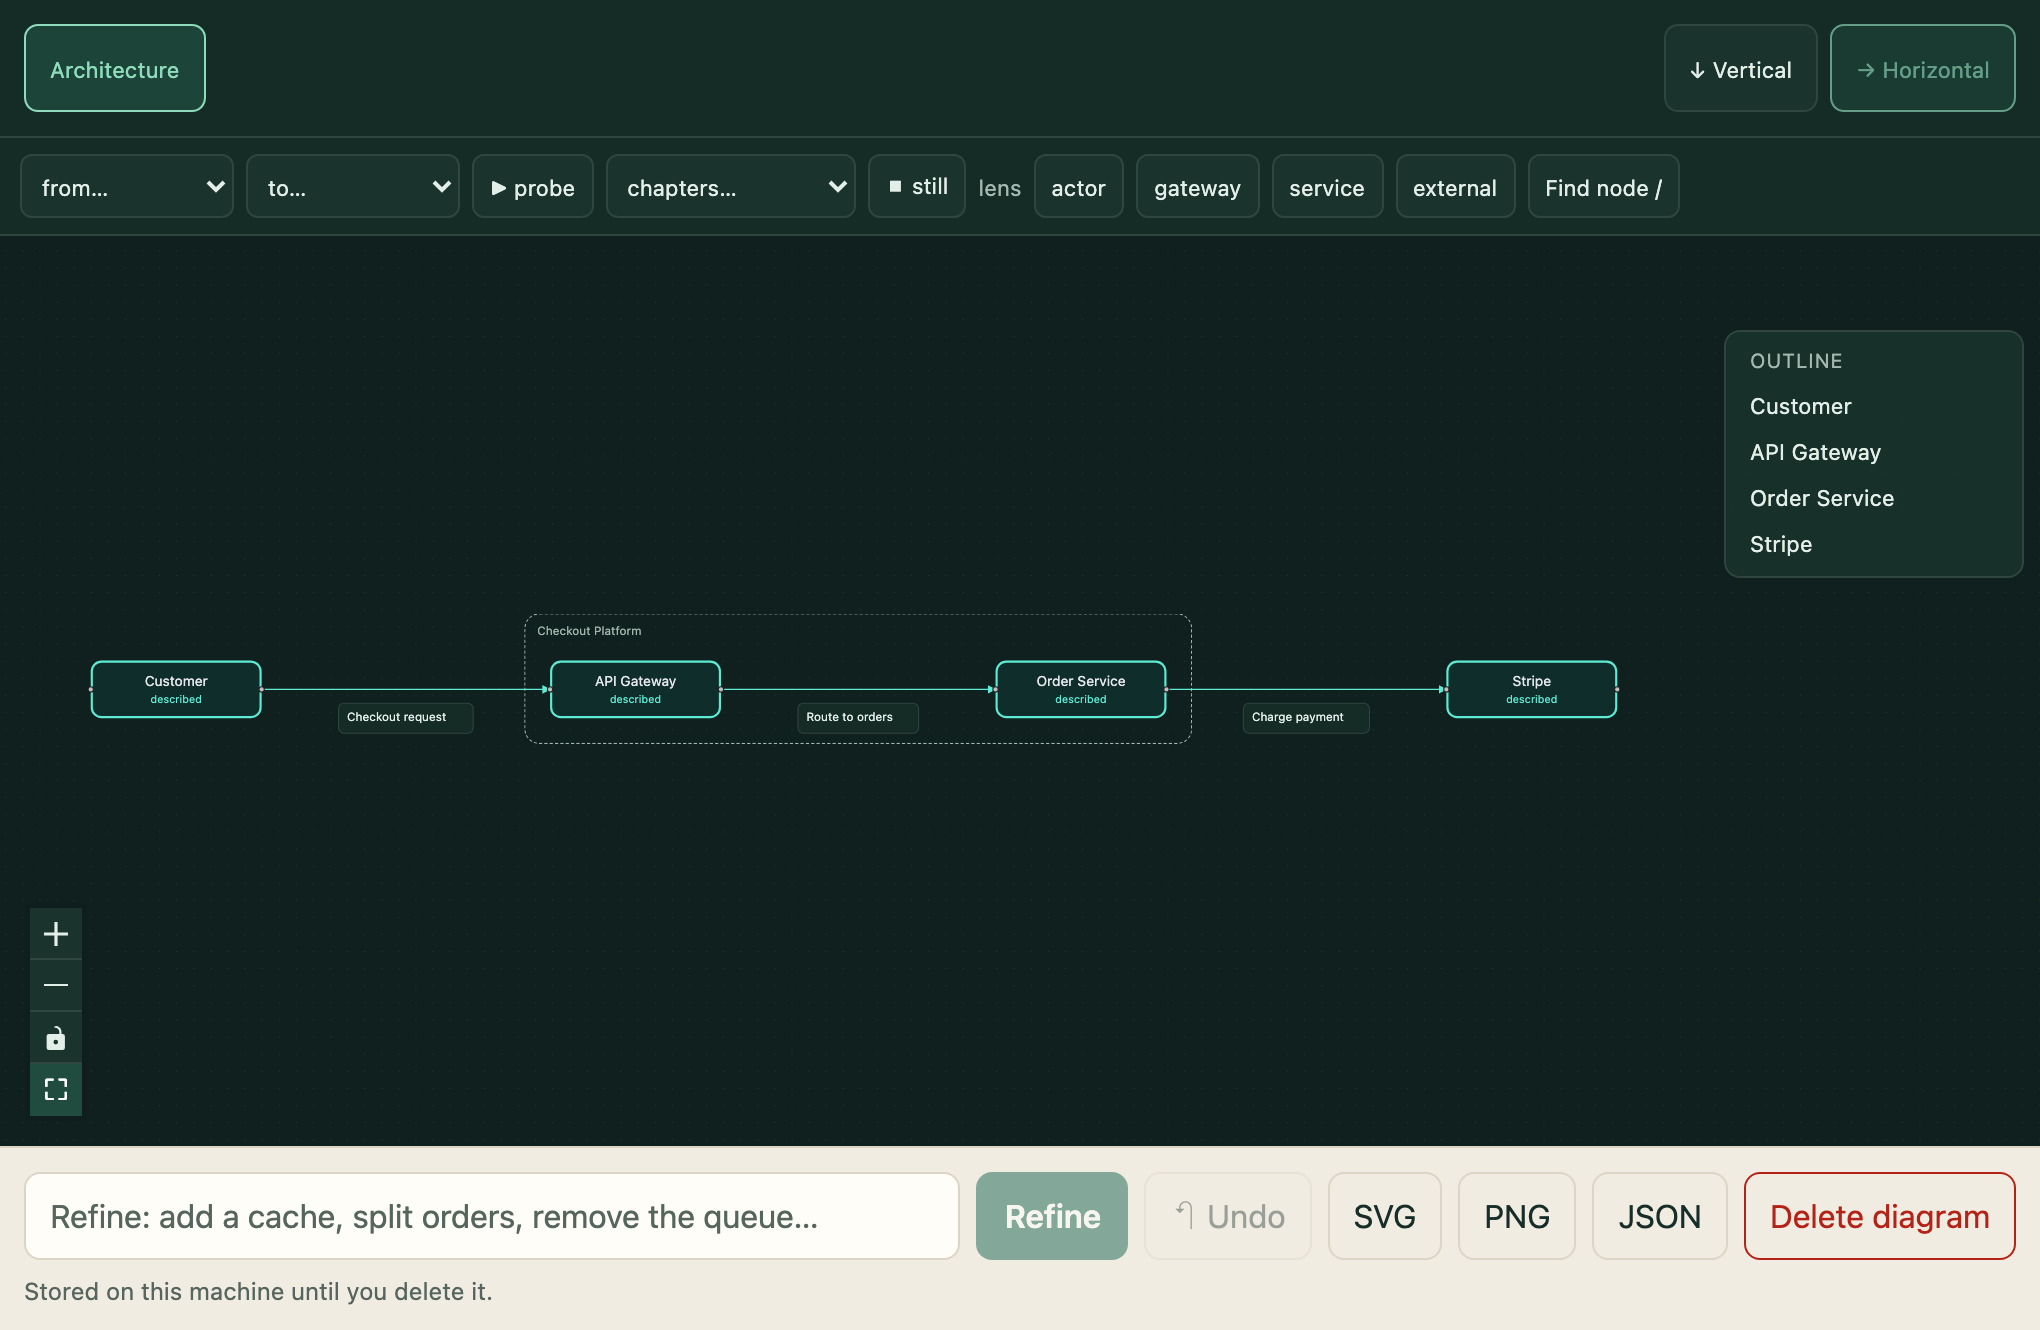
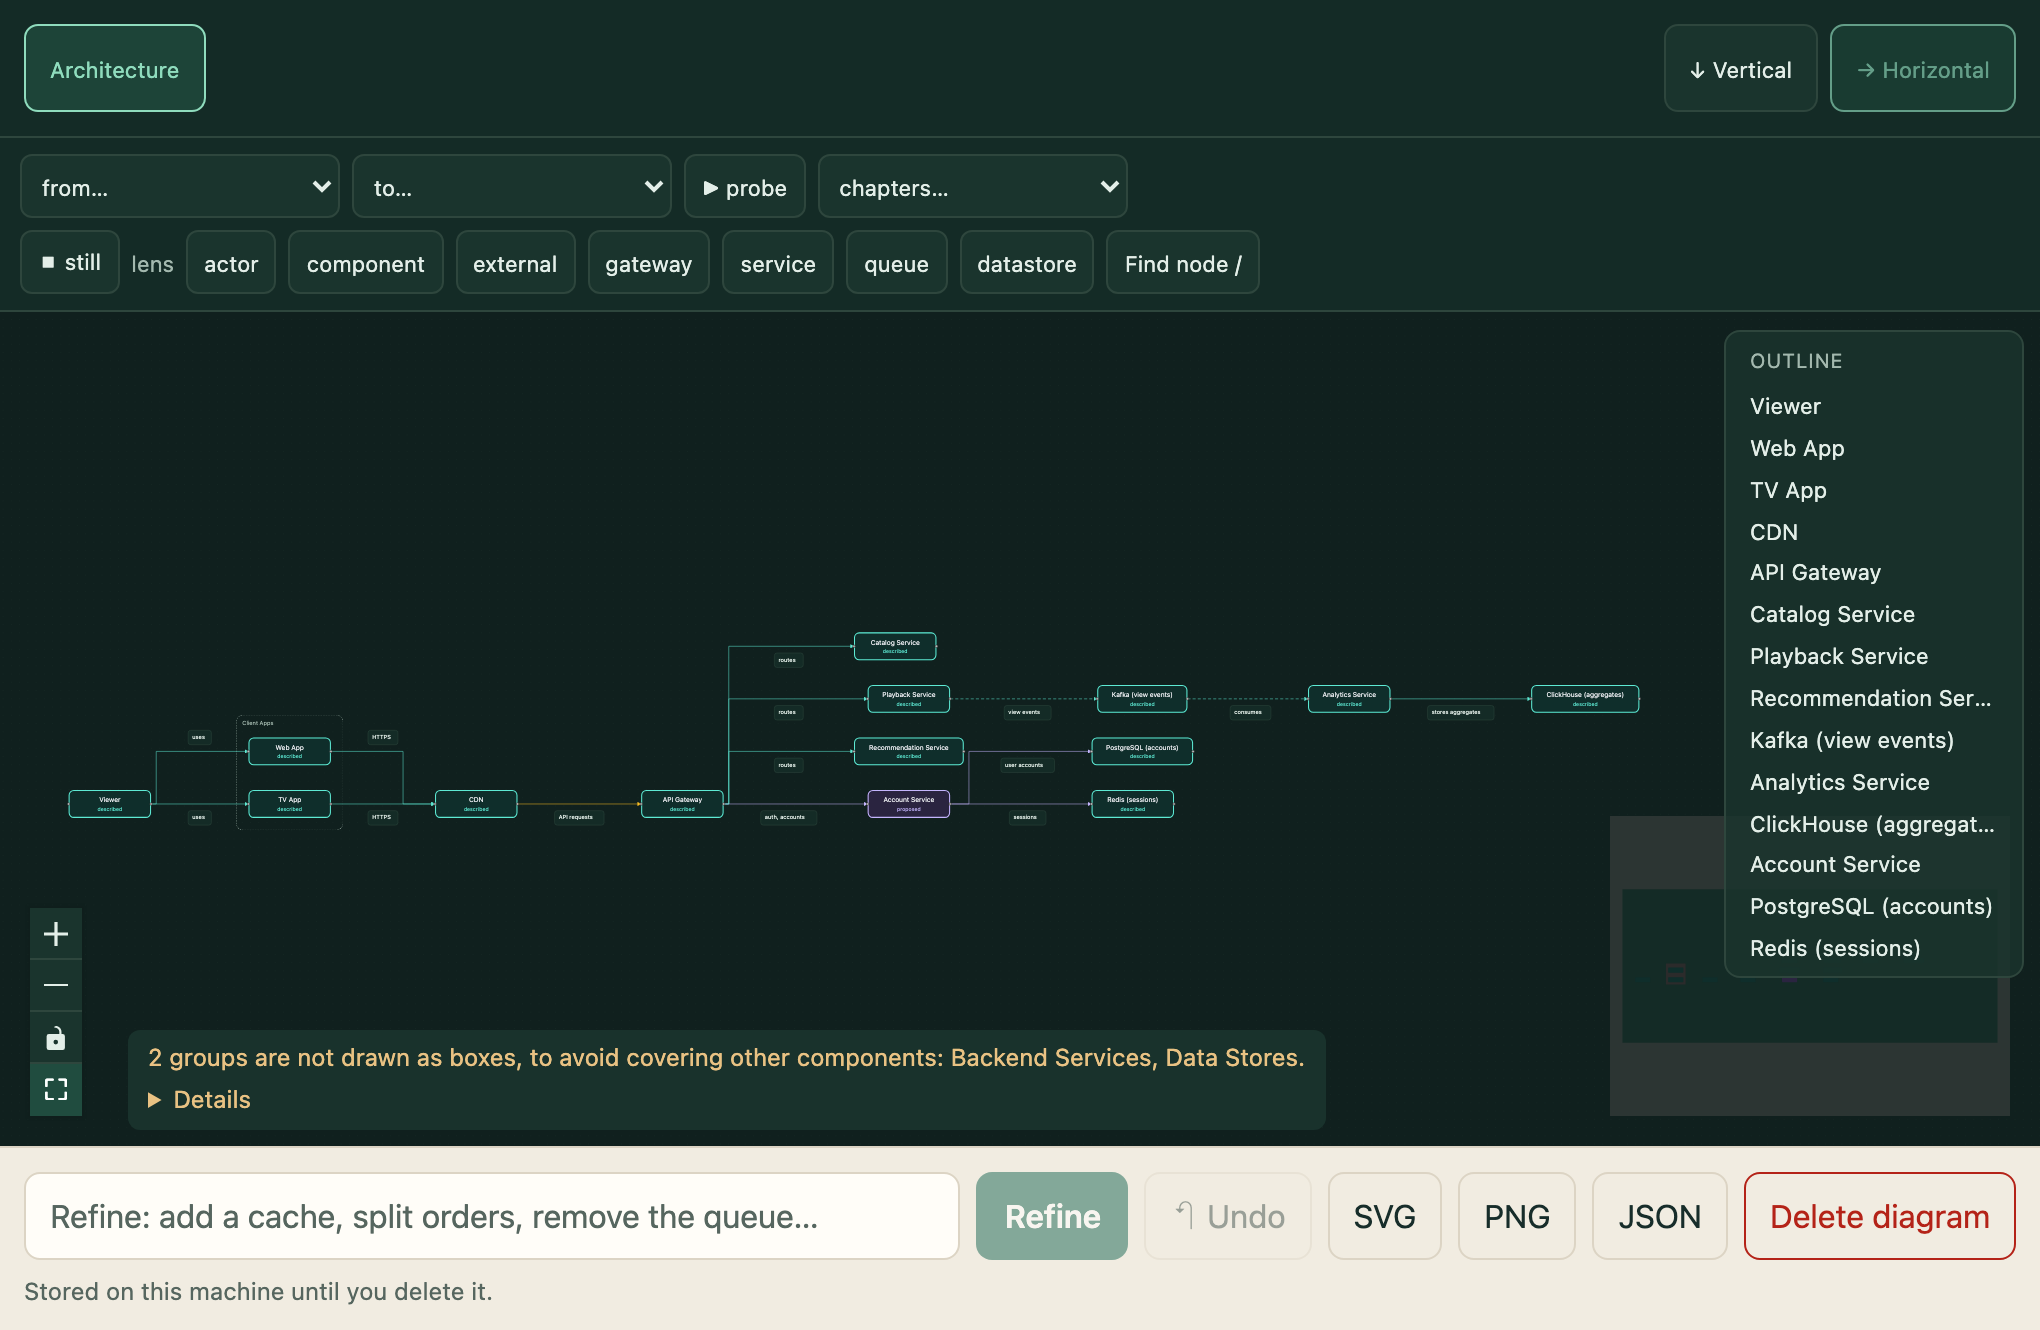
docs: improve gallery framing and show streaming architecture

diff --git a/README.md b/README.md
@@ -34,7 +34,7 @@ A 32-second tour: describe a streaming platform, follow requests and events, the
 
 | Architecture | Sequence |
 |---|---|
-| [![Checkout architecture with customer, gateway, order service and payment provider](docs/assets/architecture.png)](docs/assets/architecture.png) | [![Login sequence showing participants and ordered interactions](docs/assets/sequence.png)](docs/assets/sequence.png) |
+| [![Streaming architecture with clients, services, events and data stores](docs/assets/architecture.png)](docs/assets/architecture.png) | [![Login sequence showing participants and ordered interactions](docs/assets/sequence.png)](docs/assets/sequence.png) |
 | **The big picture.** Components, services and connections. | **The interaction.** Who calls whom, and in what order. |
 | **Data model** | **Component detail** |
 | [![Library data model with entities, fields and relationships](docs/assets/data-model.png)](docs/assets/data-model.png) | [![Order-service detail showing request handling, persistence and event publishing](docs/assets/component-detail.png)](docs/assets/component-detail.png) |
